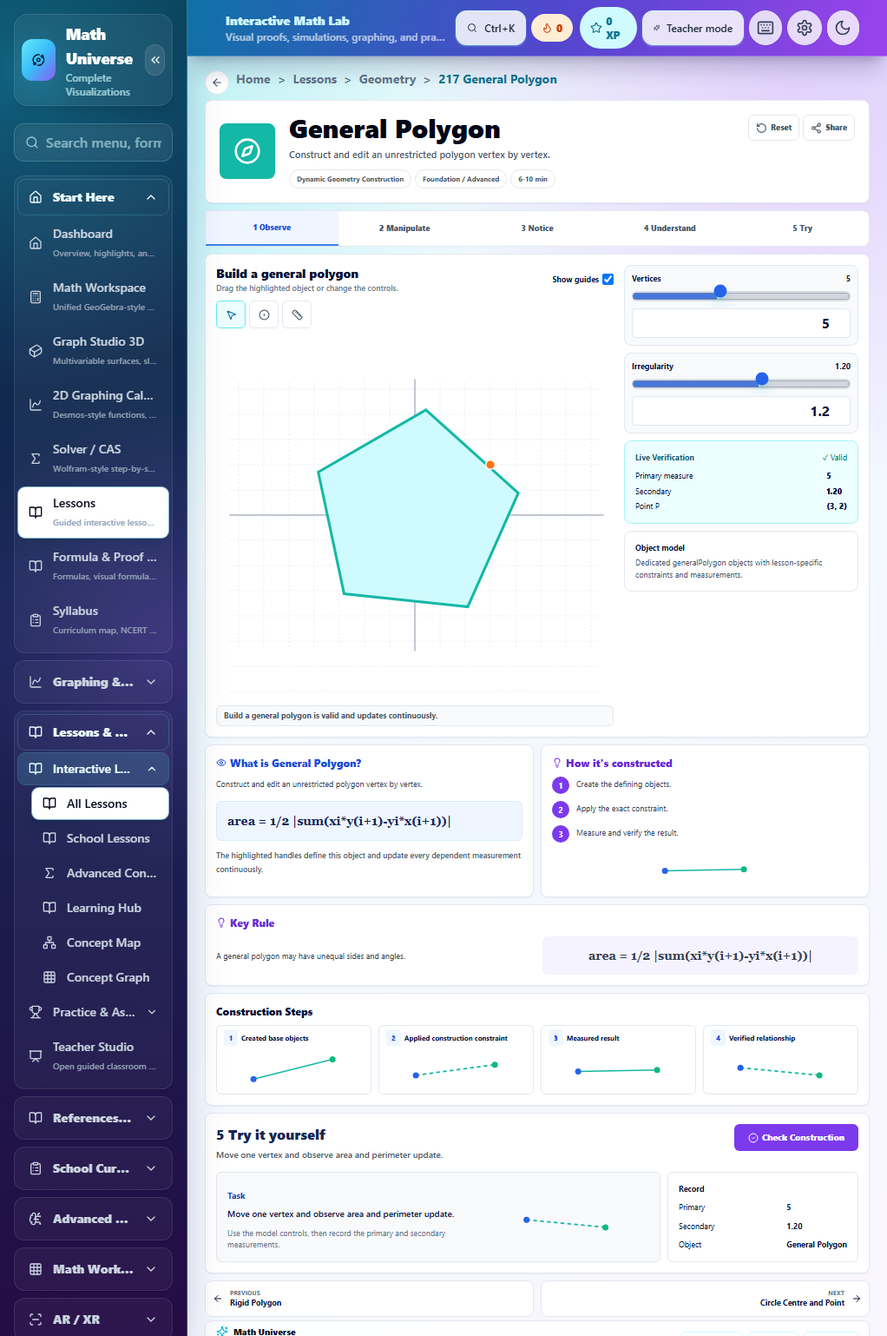
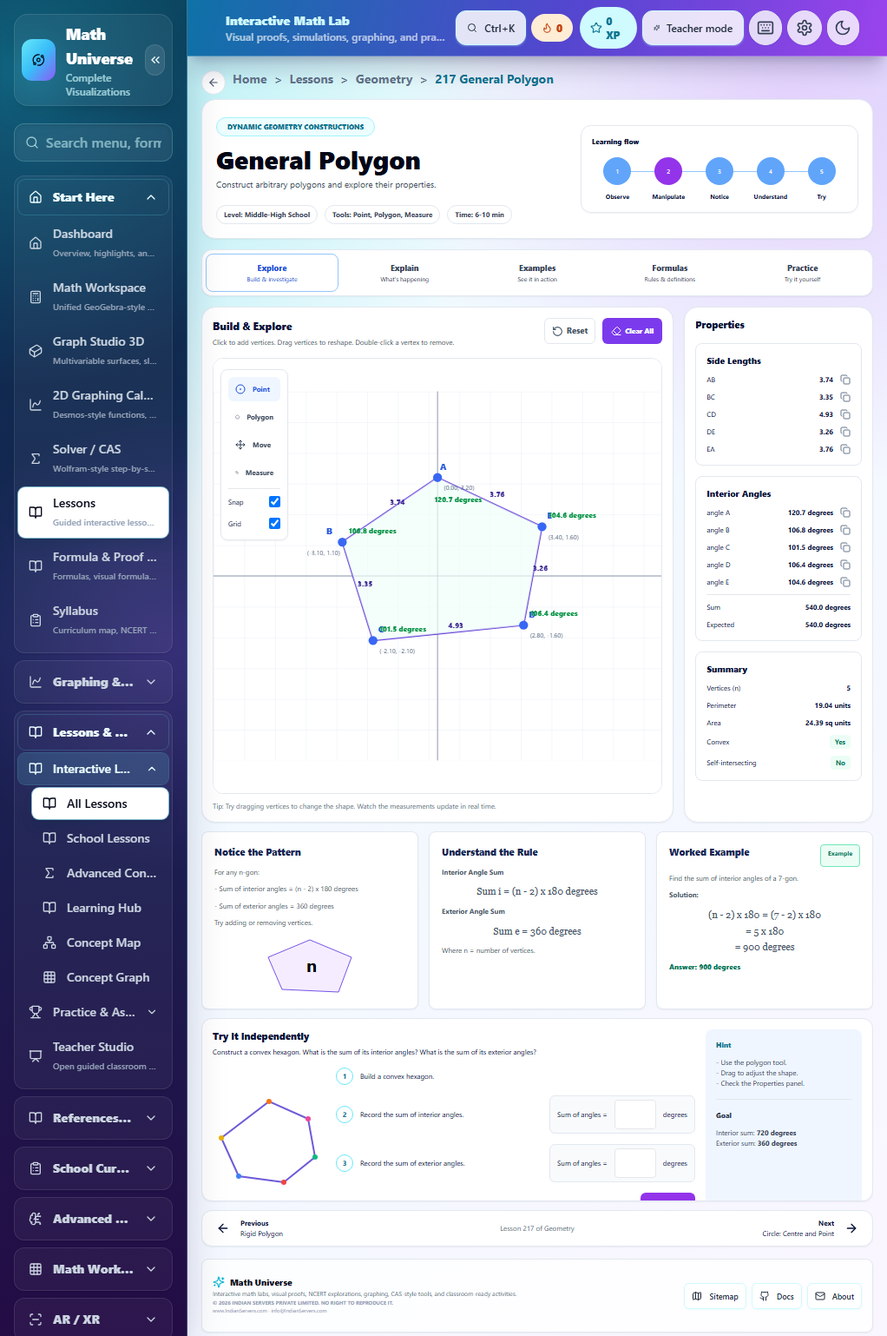
Rebuild general polygon lesson to match target UI

diff --git a/src/modules/lessons/adapters/GeneralPolygonTargetLesson217.tsx b/src/modules/lessons/adapters/GeneralPolygonTargetLesson217.tsx
@@ -1,0 +1,122 @@
+import {
+  ArrowLeft,
+  ArrowRight,
+  Check,
+  CircleDot,
+  Copy,
+  Eraser,
+  Move,
+  Pentagon,
+  RotateCcw,
+  Ruler,
+} from "lucide-react";
+import {
+  useEffect,
+  useMemo,
+  useState,
+  type PointerEvent as ReactPointerEvent,
+} from "react";
+import type { LessonAdapterProps } from "../types";
+
+type Point = { x: number; y: number };
+type Tool = "point" | "polygon" | "move" | "measure";
+type Drag = { index: number | "polygon"; start: Point; original: Point[] } | null;
+const initialPoints: Point[] = [
+  { x: 0, y: 3.2 }, { x: -3.1, y: 1.1 }, { x: -2.1, y: -2.1 },
+  { x: 2.8, y: -1.6 }, { x: 3.4, y: 1.6 },
+];
+const letters = "ABCDEFGHIJKLMNOPQRSTUVWXYZ";
+
+export default function GeneralPolygonTargetLesson217({ resetToken, onInteraction }: LessonAdapterProps) {
+  const [points, setPoints] = useState<Point[]>(initialPoints);
+  const [tool, setTool] = useState<Tool>("point");
+  const [snap, setSnap] = useState(true);
+  const [grid, setGrid] = useState(true);
+  const [drag, setDrag] = useState<Drag>(null);
+  const [selectedSide, setSelectedSide] = useState<number | null>(null);
+  const [answers, setAnswers] = useState(["", ""]);
+  const [feedback, setFeedback] = useState<"idle" | "correct" | "incorrect">("idle");
+  const model = useMemo(() => polygonModel(points), [points]);
+
+  const reset = () => { setPoints(initialPoints); setTool("point"); setSnap(true); setGrid(true); setSelectedSide(null); setAnswers(["",""]); setFeedback("idle"); onInteraction(); };
+  useEffect(() => { setPoints(initialPoints); setTool("point"); setSnap(true); setGrid(true); setSelectedSide(null); setAnswers(["",""]); setFeedback("idle"); }, [resetToken]);
+  const check = () => { setFeedback(Number(answers[0]) === 720 && Number(answers[1]) === 360 ? "correct" : "incorrect"); onInteraction(); };
+
+  return <section
+    className="space-y-3"
+    style={{ marginTop: -7 }}
+    data-testid="dynamic-geometry-mockup-0274"
+    data-dedicated-lesson="217"
+    data-object-model="editable-general-polygon"
+    data-direct-interaction="true"
+    aria-label="General Polygon dedicated interactive geometry model"
+  >
+    <span className="sr-only">Live Verification. Check Construction.</span>
+    <header className="rounded-2xl border border-slate-200 bg-white p-4 shadow-sm">
+      <div className="grid items-center gap-5 md:grid-cols-[1.25fr_1fr]">
+        <div><p className="inline-block rounded-full border border-cyan-200 bg-cyan-50 px-3 py-1 text-[8px] font-black uppercase text-cyan-700">Dynamic Geometry Constructions</p><h1 className="mt-2 text-[29px] font-black leading-9 text-slate-950">General Polygon</h1><p className="mt-1 text-[10px] text-slate-600">Construct arbitrary polygons and explore their properties.</p><div className="mt-4 flex flex-wrap gap-2 text-[8px] font-bold text-slate-700"><span className="target-geometry-chip">Level: Middle-High School</span><span className="target-geometry-chip">Tools: Point, Polygon, Measure</span><span className="target-geometry-chip">Time: 6-10 min</span></div></div>
+        <div className="rounded-xl border border-slate-200 p-3 shadow-sm"><p className="text-[8px] font-black">Learning flow</p><div className="relative mt-3 grid grid-cols-5 text-center text-[7px]"><div className="absolute left-[10%] right-[10%] top-4 h-px bg-blue-300" />{['Observe','Manipulate','Notice','Understand','Try'].map((label,index)=><div key={label} className="relative"><span className={`mx-auto grid h-8 w-8 place-items-center rounded-full text-white ${index===1?'bg-purple-600':'bg-blue-400'}`}>{index+1}</span><b className="mt-2 block">{label}</b></div>)}</div></div>
+      </div>
+    </header>
+
+    <nav className="grid grid-cols-5 overflow-hidden rounded-xl border border-slate-200 bg-white p-1 shadow-sm">{[['Explore','Build & investigate'],['Explain',"What's happening"],['Examples','See it in action'],['Formulas','Rules & definitions'],['Practice','Try it yourself']].map(([label,sub],index)=><button type="button" key={label} className={`h-11 rounded-lg text-[9px] font-black ${index===0?'border border-blue-300 text-blue-700':'text-slate-700'}`} onClick={()=>{document.getElementById(index===4?'general-practice':`general-${index}`)?.scrollIntoView({behavior:'smooth',block:'center'});onInteraction()}}>{label}<span className="block text-[7px] font-normal">{sub}</span></button>)}</nav>
+
+    <section id="general-0" className="grid gap-3 md:grid-cols-[minmax(0,2.5fr)_minmax(190px,1fr)]">
+      <div className="rounded-2xl border border-slate-200 bg-white p-3 shadow-sm">
+        <div className="flex items-start justify-between gap-3"><div><h2 className="text-[12px] font-black">Build &amp; Explore</h2><p className="mt-1 text-[8px] text-slate-600">Click to add vertices. Drag vertices to reshape. Double-click a vertex to remove.</p></div><div className="flex gap-2"><button type="button" className="target-geometry-action" onClick={reset}><RotateCcw />Reset</button><button type="button" className="target-general-clear" onClick={()=>{setPoints([]);setTool('point');setSelectedSide(null);onInteraction()}}><Eraser />Clear All</button></div></div>
+        <div className="relative mt-3 overflow-hidden rounded-xl border border-slate-200">
+          <div className="absolute left-2 top-3 z-10 grid w-[78px] gap-1 rounded-lg border border-slate-200 bg-white/95 p-2 text-[8px] shadow-sm"><ToolButton active={tool==='point'} icon={<CircleDot/>} label="Point" onClick={()=>setTool('point')}/><ToolButton active={tool==='polygon'} icon={<Pentagon/>} label="Polygon" onClick={()=>setTool('polygon')}/><ToolButton active={tool==='move'} icon={<Move/>} label="Move" onClick={()=>setTool('move')}/><ToolButton active={tool==='measure'} icon={<Ruler/>} label="Measure" onClick={()=>setTool('measure')}/><hr/><Toggle label="Snap" checked={snap} onChange={setSnap}/><Toggle label="Grid" checked={grid} onChange={setGrid}/></div>
+          <PolygonCanvas points={points} model={model} tool={tool} snap={snap} grid={grid} drag={drag} selectedSide={selectedSide} onDrag={setDrag} onPoints={(next)=>{setPoints(next);setFeedback('idle');onInteraction()}} onSelectSide={setSelectedSide}/>
+        </div>
+        <p className="mt-2 text-[8px] text-slate-500">Tip: Try dragging vertices to change the shape. Watch the measurements update in real time.</p>
+      </div>
+      <Properties points={points} model={model} onCopy={(text)=>{void navigator.clipboard?.writeText(text);onInteraction()}} />
+    </section>
+
+    <section className="grid gap-3 md:grid-cols-3" style={{marginTop:10}}>
+      <article id="general-1" className="target-general-card"><h2>Notice the Pattern</h2><p>For any n-gon:</p><p>- Sum of interior angles = (n - 2) x 180 degrees</p><p>- Sum of exterior angles = 360 degrees</p><p>Try adding or removing vertices.</p><MiniPolygon /></article>
+      <article id="general-3" className="target-general-card"><h2>Understand the Rule</h2><b>Interior Angle Sum</b><p className="target-general-formula">Sum i = (n - 2) x 180 degrees</p><b>Exterior Angle Sum</b><p className="target-general-formula">Sum e = 360 degrees</p><p>Where n = number of vertices.</p></article>
+      <article id="general-2" className="target-general-card"><div className="flex justify-between"><h2>Worked Example</h2><span className="rounded border border-emerald-300 bg-emerald-50 px-2 py-1 text-[7px] font-bold text-emerald-700">Example</span></div><p>Find the sum of interior angles of a 7-gon.</p><b>Solution:</b><p className="target-general-formula">(n - 2) x 180 = (7 - 2) x 180<br/>= 5 x 180<br/>= 900 degrees</p><p className="font-black text-emerald-700">Answer: 900 degrees</p></article>
+    </section>
+
+    <section id="general-practice" className="grid h-[211px] gap-3 overflow-hidden rounded-xl border border-slate-200 bg-white p-3 shadow-sm md:grid-cols-[1fr_180px]" style={{marginTop:10}}>
+      <div><h2 className="text-[11px] font-black">Try It Independently</h2><p className="mt-1 text-[8px]">Construct a convex hexagon. What is the sum of its interior angles? What is the sum of its exterior angles?</p><div className="mt-3 grid items-center gap-3 md:grid-cols-[130px_1fr]"><PracticeHexagon/><div className="space-y-3 text-[8px]"><PracticeRow number="1">Build a convex hexagon.</PracticeRow><PracticeRow number="2">Record the sum of interior angles. <AnswerInput label="Hexagon interior sum" value={answers[0]} onChange={(value)=>{setAnswers([value,answers[1]]);setFeedback('idle')}} /></PracticeRow><PracticeRow number="3">Record the sum of exterior angles. <AnswerInput label="Hexagon exterior sum" value={answers[1]} onChange={(value)=>{setAnswers([answers[0],value]);setFeedback('idle')}} /></PracticeRow><button type="button" className="ml-auto block rounded-md bg-purple-600 px-5 py-2 font-black text-white" onClick={check}>Check</button>{feedback!=='idle'&&<p role="status" className={`text-right font-black ${feedback==='correct'?'text-emerald-700':'text-rose-700'}`}>{feedback==='correct'?'Correct polygon sums.':'Use the n-gon sum rules.'}</p>}</div></div></div>
+      <aside className="rounded-lg bg-blue-50 p-3 text-[8px] text-slate-700"><h3 className="font-black text-cyan-700">Hint</h3><p className="mt-2">- Use the polygon tool.</p><p>- Drag to adjust the shape.</p><p>- Check the Properties panel.</p><hr className="my-3"/><h3 className="font-black">Goal</h3><p className="mt-2">Interior sum: <b>720 degrees</b></p><p>Exterior sum: <b>360 degrees</b></p></aside>
+    </section>
+
+    <nav className="grid grid-cols-[1fr_auto_1fr] items-center rounded-xl border border-slate-200 bg-white px-4 py-2 text-[8px] shadow-sm" style={{marginTop:10}} aria-label="Adjacent lessons"><a className="flex items-center gap-3" href="/lessons/geometry/216-rigid-polygon"><ArrowLeft className="h-4 w-4"/><span><b className="block">Previous</b>Rigid Polygon</span></a><span className="text-slate-500">Lesson 217 of Geometry</span><a className="flex items-center justify-end gap-3 text-right" href="/lessons/geometry/218-circle-centre-and-point"><span><b className="block">Next</b>Circle: Centre and Point</span><ArrowRight className="h-4 w-4"/></a></nav>
+  </section>;
+}
+
+function PolygonCanvas({points,model,tool,snap,grid,drag,selectedSide,onDrag,onPoints,onSelectSide}:{points:Point[];model:ReturnType<typeof polygonModel>;tool:Tool;snap:boolean;grid:boolean;drag:Drag;selectedSide:number|null;onDrag:(drag:Drag)=>void;onPoints:(points:Point[])=>void;onSelectSide:(side:number|null)=>void}){
+  const domain=(event:ReactPointerEvent<SVGSVGElement>):Point=>{const box=event.currentTarget.getBoundingClientRect();const p={x:-7+((event.clientX-box.left)/box.width)*14,y:6-((event.clientY-box.top)/box.height)*12};return snap?{x:Math.round(p.x*10)/10,y:Math.round(p.y*10)/10}:p};
+  const start=(event:ReactPointerEvent<SVGElement>,index:number|"polygon")=>{event.stopPropagation();const svg=event.currentTarget.ownerSVGElement!;const box=svg.getBoundingClientRect();const p={x:-7+((event.clientX-box.left)/box.width)*14,y:6-((event.clientY-box.top)/box.height)*12};onDrag({index,start:p,original:points.map(point=>({...point}))})};
+  const move=(event:ReactPointerEvent<SVGSVGElement>)=>{if(!drag)return;const p=domain(event),dx=p.x-drag.start.x,dy=p.y-drag.start.y;if(drag.index==='polygon')onPoints(drag.original.map(q=>({x:q.x+dx,y:q.y+dy})));else onPoints(drag.original.map((q,index)=>index===drag.index?p:q))};
+  const click=(event:ReactPointerEvent<SVGSVGElement>)=>{if((tool==='point'||tool==='polygon')&&!drag&&points.length<10)onPoints([...points,domain(event)])};
+  const screen=(p:Point)=>({x:350+p.x*48,y:288-p.y*48});
+  return <svg role="img" aria-label="Editable general polygon coordinate plane with add drag and remove vertices" className="h-[500px] w-full touch-none bg-white" viewBox="0 0 700 576" onPointerDown={click} onPointerMove={move} onPointerUp={()=>onDrag(null)} onPointerCancel={()=>onDrag(null)}>
+    <defs><pattern id="general-grid" width="48" height="48" patternUnits="userSpaceOnUse"><path d="M48 0H0V48" fill="none" stroke="#dfe9f3"/></pattern></defs>{grid&&<rect width="700" height="576" fill="url(#general-grid)"/>}<line x1="0" y1="288" x2="700" y2="288" stroke="#64748b"/><line x1="350" y1="0" x2="350" y2="576" stroke="#64748b"/>
+    {points.length>=2&&points.map((point,index)=>{const a=screen(point),b=screen(points[(index+1)%points.length]);return <line key={`side${index}`} data-testid={`general-polygon-side-${index}`} x1={a.x} y1={a.y} x2={b.x} y2={b.y} stroke={selectedSide===index?'#f97316':'#6740db'} strokeWidth={selectedSide===index?4:2.5} onClick={(event)=>{if(tool==='measure'){event.stopPropagation();onSelectSide(index)}}}/>})}
+    {points.length>=3&&<polygon data-testid="general-polygon-body" data-area={model.area.toFixed(4)} data-perimeter={model.perimeter.toFixed(4)} points={points.map(p=>{const s=screen(p);return `${s.x},${s.y}`}).join(' ')} fill="#effdf8" fillOpacity=".7" className="cursor-move" onPointerDown={(event)=>{if(tool==='move')start(event,'polygon')}}/>}
+    {points.map((point,index)=>{const s=screen(point);return <g key={`${index}-${point.x}-${point.y}`}><circle data-testid={`general-polygon-vertex-${index}`} cx={s.x} cy={s.y} r="7" fill="#3867f3" className="cursor-move" onPointerDown={(event)=>start(event,index)} onDoubleClick={(event)=>{event.stopPropagation();if(points.length>3)onPoints(points.filter((_,i)=>i!==index))}}/><text x={s.x+(index===0?4:index===1?-25:8)} y={s.y-12} fill="#2456dd" fontSize="13" fontWeight="800">{letters[index]}</text><text x={s.x+(index===1?-55:10)} y={s.y+20} fill="#52627b" fontSize="10">({point.x.toFixed(2)}, {point.y.toFixed(2)})</text>{model.angles[index]!==undefined&&<text x={s.x+(index===0?-5:10)} y={s.y+(index===0?38:-14)} fill="#079447" fontSize="11" fontWeight="800">{model.angles[index].toFixed(1)} degrees</text>}</g>})}
+    {model.lengths.map((length,index)=>{const a=screen(points[index]),b=screen(points[(index+1)%points.length]);return <text key={`length${index}`} x={(a.x+b.x)/2} y={(a.y+b.y)/2-8} fill="#3f2b95" fontSize="11" fontWeight="800">{length.toFixed(2)}</text>})}
+  </svg>;
+}
+
+function Properties({points,model,onCopy}:{points:Point[];model:ReturnType<typeof polygonModel>;onCopy:(text:string)=>void}){return <aside className="rounded-2xl border border-slate-200 bg-white p-3 shadow-sm"><h2 className="text-[11px] font-black">Properties</h2><PropertyPanel title="Side Lengths">{model.lengths.map((value,index)=><Property key={index} label={`${letters[index]}${letters[(index+1)%points.length]}`} value={value.toFixed(2)} onCopy={()=>onCopy(value.toFixed(2))}/>)}</PropertyPanel><PropertyPanel title="Interior Angles">{model.angles.map((value,index)=><Property key={index} label={`angle ${letters[index]}`} value={`${value.toFixed(1)} degrees`} onCopy={()=>onCopy(value.toFixed(1))}/>)}<hr/><Property label="Sum" value={`${model.angleSum.toFixed(1)} degrees`}/><Property label="Expected" value={`${Math.max(0,(points.length-2)*180).toFixed(1)} degrees`}/></PropertyPanel><PropertyPanel title="Summary"><Property label="Vertices (n)" value={String(points.length)}/><Property label="Perimeter" value={`${model.perimeter.toFixed(2)} units`}/><Property label="Area" value={`${model.area.toFixed(2)} sq units`}/><Property label="Convex" value={model.convex?'Yes':'No'} tone={model.convex?'good':'bad'}/><Property label="Self-intersecting" value={model.selfIntersecting?'Yes':'No'} tone={model.selfIntersecting?'bad':'good'}/></PropertyPanel></aside>}
+function PropertyPanel({title,children}:{title:string;children:React.ReactNode}){return <section className="mt-3 rounded-lg border border-slate-200 p-3 text-[8px]"><h3 className="mb-2 text-[10px] font-black">{title}</h3><div className="space-y-2">{children}</div></section>}
+function Property({label,value,onCopy,tone}:{label:string;value:string;onCopy?:()=>void;tone?:'good'|'bad'}){return <div className="flex items-center justify-between gap-2"><span>{label}</span><span className={`ml-auto font-bold ${tone==='good'?'rounded bg-emerald-50 px-1.5 py-0.5 text-emerald-700':tone==='bad'?'rounded bg-rose-50 px-1.5 py-0.5 text-rose-700':''}`}>{value}</span>{onCopy&&<button type="button" aria-label={`Copy ${label}`} onClick={onCopy}><Copy className="h-3 w-3 text-slate-500"/></button>}</div>}
+function ToolButton({active,icon,label,onClick}:{active:boolean;icon:React.ReactNode;label:string;onClick:()=>void}){return <button type="button" aria-pressed={active} className={`flex items-center gap-2 rounded-md px-2 py-2 text-left font-bold ${active?'bg-blue-50 text-blue-700':'text-slate-700'}`} onClick={()=>{onClick()}}><span className="[&>svg]:h-3 [&>svg]:w-3">{icon}</span>{label}</button>}
+function Toggle({label,checked,onChange}:{label:string;checked:boolean;onChange:(value:boolean)=>void}){return <label className="flex items-center justify-between gap-2 py-1"><span>{label}</span><input type="checkbox" checked={checked} onChange={event=>onChange(event.target.checked)}/></label>}
+function PracticeRow({number,children}:{number:string;children:React.ReactNode}){return <div className="flex items-center gap-2"><b className="grid h-5 w-5 shrink-0 place-items-center rounded-full border border-cyan-300 text-cyan-700">{number}</b><span className="flex flex-1 items-center justify-between gap-2">{children}</span></div>}
+function AnswerInput({label,value,onChange}:{label:string;value:string;onChange:(value:string)=>void}){return <label className="flex shrink-0 items-center gap-2 rounded-md border border-slate-200 bg-slate-50 px-2 py-1">Sum of angles = <input aria-label={label} className="w-12 rounded border bg-white px-1 py-1" value={value} onChange={event=>onChange(event.target.value)}/> degrees</label>}
+function MiniPolygon(){return <svg className="mx-auto mt-2 h-[70px] w-[120px]" viewBox="0 0 120 70"><polygon points="60,5 108,25 93,65 28,62 12,25" fill="#f5edff" stroke="#7753e8"/><text x="56" y="42" fontSize="20" fontWeight="700">n</text></svg>}
+function PracticeHexagon(){return <svg className="h-[110px] w-full" viewBox="0 0 130 110"><polygon points="65,8 110,28 118,72 82,101 30,94 10,50" fill="#fff" stroke="#6e5bd8" strokeWidth="2"/><circle cx="65" cy="8" r="3" fill="#f97316"/><circle cx="110" cy="28" r="3" fill="#ec4899"/><circle cx="118" cy="72" r="3" fill="#10b981"/><circle cx="82" cy="101" r="3" fill="#ef4444"/><circle cx="30" cy="94" r="3" fill="#3b82f6"/><circle cx="10" cy="50" r="3" fill="#eab308"/></svg>}
+
+function polygonModel(points:Point[]){const lengths=points.map((point,index)=>distance(point,points[(index+1)%points.length]));const areaSigned=points.length<3?0:points.reduce((sum,p,index)=>sum+p.x*points[(index+1)%points.length].y-p.y*points[(index+1)%points.length].x,0)/2;const angles=points.length<3?[]:points.map((point,index)=>interiorAngle(points[(index-1+points.length)%points.length],point,points[(index+1)%points.length],Math.sign(areaSigned)||1));return{lengths,angles,perimeter:lengths.reduce((a,b)=>a+b,0),area:Math.abs(areaSigned),angleSum:angles.reduce((a,b)=>a+b,0),convex:isConvex(points),selfIntersecting:hasSelfIntersection(points)}}
+function distance(a:Point,b:Point){return Math.hypot(b.x-a.x,b.y-a.y)}
+function interiorAngle(prev:Point,current:Point,next:Point,orientation:number){const a=Math.atan2(prev.y-current.y,prev.x-current.x),b=Math.atan2(next.y-current.y,next.x-current.x);let value=(b-a)*180/Math.PI;if(orientation>0)value=-value;while(value<0)value+=360;while(value>=360)value-=360;return value}
+function cross(a:Point,b:Point,c:Point){return(b.x-a.x)*(c.y-b.y)-(b.y-a.y)*(c.x-b.x)}
+function isConvex(points:Point[]){if(points.length<3)return false;let sign=0;for(let i=0;i<points.length;i++){const value=cross(points[i],points[(i+1)%points.length],points[(i+2)%points.length]);if(Math.abs(value)<1e-8)continue;const next=Math.sign(value);if(sign&&next!==sign)return false;sign=next}return sign!==0&&!hasSelfIntersection(points)}
+function hasSelfIntersection(points:Point[]){if(points.length<4)return false;for(let i=0;i<points.length;i++)for(let j=i+1;j<points.length;j++){if(i===j||(i+1)%points.length===j||i===(j+1)%points.length)continue;if(intersects(points[i],points[(i+1)%points.length],points[j],points[(j+1)%points.length]))return true}return false}
+function intersects(a:Point,b:Point,c:Point,d:Point){const ab1=cross(a,b,c),ab2=cross(a,b,d),cd1=cross(c,d,a),cd2=cross(c,d,b);return ab1*ab2<0&&cd1*cd2<0}

diff --git a/src/components/layout/AppLayout.tsx b/src/components/layout/AppLayout.tsx
@@ -54,6 +54,8 @@ function AppFooter() {
   const isRigidPolygonTarget =
     location.pathname === "/lessons/geometry/216-rigid-polygon";
   const isCompassTarget = location.pathname === "/lessons/geometry/221-compass";
+  const isGeneralPolygonTarget =
+    location.pathname === "/lessons/geometry/217-general-polygon";
   const usesTargetCompactFooter =
     isRightTriangleTarget ||
     location.pathname === "/lessons/geometry/205-segment-with-given-length" ||
@@ -82,7 +84,7 @@ function AppFooter() {
   if (usesTargetCompactFooter) {
     return (
       <footer
-        className={`mx-auto w-full max-w-[1440px] py-1 ${isCompassTarget ? "h-[93px] px-4" : "h-[65px] px-5"}`}
+        className={`mx-auto w-full max-w-[1440px] py-1 ${isCompassTarget || isGeneralPolygonTarget ? "h-[93px] px-4" : "h-[65px] px-5"}`}
         aria-label="Site footer"
       >
         <div className="grid h-full grid-cols-[minmax(0,1fr)_auto] items-center rounded-lg border border-slate-200 bg-white/80 px-3 shadow-sm">
@@ -268,6 +270,8 @@ export default function AppLayout() {
   const isCompassTarget = location.pathname === "/lessons/geometry/221-compass";
   const isRigidPolygonTarget =
     location.pathname === "/lessons/geometry/216-rigid-polygon";
+  const isGeneralPolygonTarget =
+    location.pathname === "/lessons/geometry/217-general-polygon";
 
   useEffect(() => {
     setMobileOpen(false);
@@ -394,7 +398,7 @@ export default function AppLayout() {
           <main
             ref={mainContentRef}
             id="main-content"
-            className={`app-fullscreen-target mx-auto w-full max-w-[1440px] flex-1 pb-24 pt-2 md:pb-0 md:pt-4 ${isCompassTarget || isRigidPolygonTarget ? "px-3" : "px-2 sm:px-4 md:px-5"}`}
+            className={`app-fullscreen-target mx-auto w-full max-w-[1440px] flex-1 pb-24 pt-2 md:pb-0 md:pt-4 ${isCompassTarget || isRigidPolygonTarget ? "px-3" : isGeneralPolygonTarget ? "px-4" : "px-2 sm:px-4 md:px-5"}`}
           >
             {!location.pathname.startsWith("/lessons/") && (
               <button

diff --git a/src/modules/lessons/adapters/Geometry2DLessonAdapter.test.tsx b/src/modules/lessons/adapters/Geometry2DLessonAdapter.test.tsx
@@ -535,6 +535,24 @@ describe("Geometry2DLessonAdapter", () => {
     expect(html).not.toContain('aria-label="Translate x"');
   });
 
+  it("renders General Polygon with an editable measured vertex collection", () => {
+    const lesson = lessonCatalog.find((item) => item.id === 217)!;
+    const html = renderToStaticMarkup(
+      <Geometry2DLessonAdapter lesson={lesson} resetToken={0} onInteraction={vi.fn()} />,
+    );
+
+    expect(html).toContain("Editable general polygon coordinate plane with add drag and remove vertices");
+    expect(html).toContain('data-testid="general-polygon-body"');
+    expect(html).toContain('data-testid="general-polygon-vertex-0"');
+    expect(html).toContain('data-area=');
+    expect(html).toContain("Interior Angles");
+    expect(html).toContain("Self-intersecting");
+    expect(html).toContain("Try It Independently");
+    expect(html).toContain('aria-label="Hexagon interior sum"');
+    expect(html).not.toContain('aria-label="Vertices"');
+    expect(html).not.toContain('aria-label="Irregularity"');
+  });
+
   it("renders geometry lessons 236 through 245 with transformation guidance", () => {
     const expectedSnippets: Record<number, string> = {
       236: "Translation by vector",

diff --git a/src/index.css b/src/index.css
@@ -180,6 +180,55 @@
   color: white;
 }
 
+.target-general-clear {
+  display: inline-flex;
+  align-items: center;
+  gap: 4px;
+  border-radius: 6px;
+  background: #7c3aed;
+  padding: 5px 10px;
+  color: white;
+  font-size: 8px;
+  font-weight: 900;
+}
+
+.target-general-clear svg {
+  width: 12px;
+  height: 12px;
+}
+
+.target-general-card {
+  min-height: 195px;
+  border: 1px solid #e2e8f0;
+  border-radius: 8px;
+  background: #fff;
+  padding: 14px;
+  color: #475569;
+  font-size: 8px;
+  line-height: 1.55;
+  box-shadow: 0 1px 2px rgb(15 23 42 / 0.05);
+}
+
+.target-general-card h2 {
+  margin-bottom: 9px;
+  color: #172554;
+  font-size: 11px;
+  font-weight: 900;
+}
+
+.target-general-card > p,
+.target-general-card > b {
+  display: block;
+  margin-top: 7px;
+}
+
+.target-general-formula {
+  text-align: center;
+  font-family: Georgia, serif;
+  font-size: 11px;
+  line-height: 1.7;
+}
+
 :root {
   color-scheme: light;
   font-synthesis: none;

diff --git a/src/modules/lessons/adapters/GeometryTargetLessons206to235.tsx b/src/modules/lessons/adapters/GeometryTargetLessons206to235.tsx
@@ -30,6 +30,7 @@ import BestFitLineTargetLesson from "./BestFitLineTargetLesson213";
 import TriangleConstructorTargetLesson from "./TriangleConstructorTargetLesson214";
 import RegularPolygonTargetLesson from "./RegularPolygonTargetLesson215";
 import RigidPolygonTargetLesson from "./RigidPolygonTargetLesson216";
+import GeneralPolygonTargetLesson from "./GeneralPolygonTargetLesson217";
 import CompassTargetLesson from "./CompassTargetLesson221";
 import RayTargetLesson from "./RayTargetLesson206";
 
@@ -540,8 +541,7 @@ function named(id: number) {
     <DedicatedGeometrySurface {...props} spec={specs[id]} />
   );
 }
-export const GeneralPolygonTargetLesson = named(217),
-  CircleCentrePointTargetLesson = named(218),
+export const CircleCentrePointTargetLesson = named(218),
   CircleCentreRadiusTargetLesson = named(219),
   CircleThreePointsTargetLesson = named(220),
   SemicircleTargetLesson = named(222),

diff --git a/test-evidence/lesson-ui-upgrade/0263-0292-dynamic-geometry-progress-note.md b/test-evidence/lesson-ui-upgrade/0263-0292-dynamic-geometry-progress-note.md
@@ -26,7 +26,7 @@ Updated 2026-08-24. This batch replaces the generic construction fallback for le
 | 0271 | 214 Triangle Constructor | `triangle` | Implemented and browser-validated |
 | 0272 | 215 Regular Polygon | `regularPolygon` | Implemented and browser-validated |
 | 0273 | 216 Rigid Polygon | `rigidTriangleMotion` | Reworked individually and browser-validated |
-| 0274 | 217 General Polygon | `generalPolygon` | Implemented and browser-validated |
+| 0274 | 217 General Polygon | `editableGeneralPolygon` | Reworked individually and browser-validated |
 | 0275 | 218 Circle Centre and Point | `circlePoint` | Implemented and browser-validated |
 | 0276 | 219 Circle Centre and Radius | `circleRadius` | Implemented and browser-validated |
 | 0277 | 220 Circle through Three Points | `circleThree` | Implemented and browser-validated |
@@ -98,6 +98,10 @@ Reworked individually against the target mockup. Replaced the shared Sides n and
 ### Lesson 216 / Mockup 0273 - Rigid Polygon
 
 Reworked individually against the target mockup. Removed the generic quadrilateral, Rotation and Translate x sliders, repeated definition/rule cards, generic construction strip, and template verification record. The dedicated surface owns triangle ABC, a dependent translated copy A'B'C', rigid-body position and rotation, and visibility state for labels, lengths, angles, and overlay. Dragging the triangle in Move mode translates every vertex equally; dragging a vertex in Rotate mode turns the complete triangle around its centroid. Both transformations preserve the three computed side lengths byte-for-byte, and the overlay remains the exact vector (6, -2) image. The worked coordinate table, distance and angle invariants, rigid-motion taxonomy, adjacent navigation, and six-field 90-degree counterclockwise practice check match the target structure. The mockup labels two sides as 4.47 despite its stated coordinates producing 5.66 and 5.00; the implementation intentionally displays the correct live Euclidean calculations. Final 1027x1531 browser validation exercises translation, rotation, every visibility control, reset, and all practice fields, verifies the invariant data before and after both drags, reports no overflow or console errors, and fits the complete footer without scrolling.
+
+### Lesson 217 / Mockup 0274 - General Polygon
+
+Reworked individually against the target mockup. Removed the generic regular pentagon, Vertices and Irregularity sliders, generic object-model panel, repeated construction cards, and template verification record. The dedicated surface owns an ordered collection of three to ten unrestricted vertices. Point and Polygon add vertices, every vertex is directly draggable, double-click removes a vertex, Move translates the complete polygon, Measure selects a real edge, and Clear All, reset, snap, and grid controls update the editor. Side lengths, perimeter, shoelace area, oriented interior angles, angle sum, expected angle sum, convexity, and pairwise non-adjacent edge intersection are recalculated from the same point collection. The Properties copy controls, n-gon pattern and formula panels, seven-gon example, learning flow, adjacent navigation, and independently graded hexagon sums follow mockup 0274. The screenshot uses live coordinate calculations rather than copying internally inconsistent property values from the mockup. Final 1022x1538 browser validation reshapes a vertex and confirms area changes, adds and removes a sixth vertex, translates the complete polygon and confirms area is preserved, selects an edge, exercises both display toggles, clears and restores the model, and verifies 720-degree/360-degree hexagon sums with no overflow or console errors.
 
 ### Lesson 221 / Mockup 0278 - Compass
 
